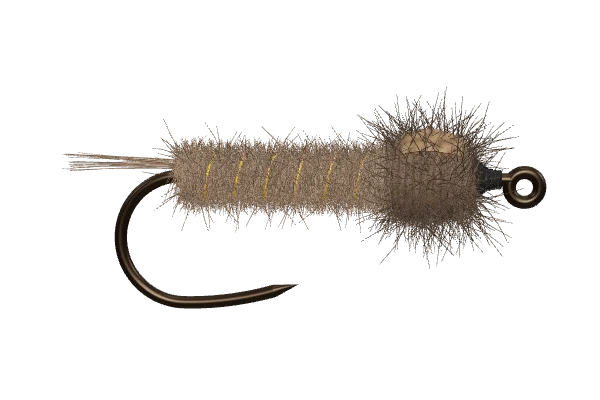
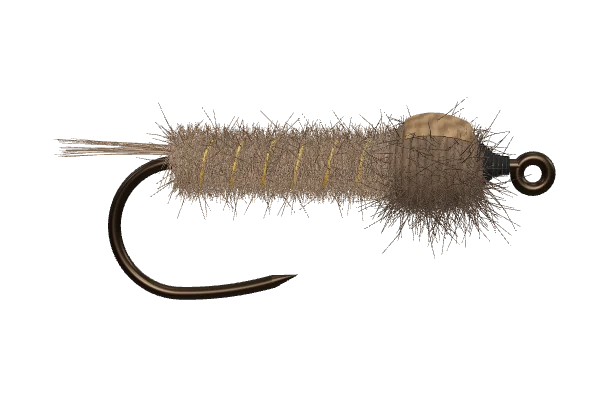
Review fixes, round 5: headless rendering falls back to SwiftShader when Vulkan has no GPU (and FLYBENCH_SOFTWARE_RENDER forces it); dubbed fur is pressed flat under wing cases too; vise mode pauses after every step; a foam back shows its excess until trimmed; leg strands keep their thickness as tai

Changed region(s): [[0.09, 0.24, 0.93, 0.78]]

diff --git a/src/tying/describe.ts b/src/tying/describe.ts
@@ -51,11 +51,15 @@ export function materialsList(recipe: Recipe): MaterialsListEntry[] {
   ];
 }
 
-export function positionText(s: number): string {
-  if (s <= 0.02) return "the start of the bend";
-  if (s >= 0.95) return "just behind the eye";
-  if (Math.abs(s - 0.5) <= 0.02) return "halfway along the shank";
-  return `${Math.round(s * 100)}% of the way along the shank`;
+/** What the fly is dressed on: a hook, a tube, or a Waddington shank (no bend on either). */
+export type Mount = "hook" | "tube" | "waddington";
+
+export function positionText(s: number, mount: Mount = "hook"): string {
+  const along = mount === "tube" ? "the tube" : "the shank";
+  if (s <= 0.02) return mount === "hook" ? "the start of the bend" : `the rear end of ${along}`;
+  if (s >= 0.95) return mount === "tube" ? "just behind the front of the tube" : "just behind the eye";
+  if (Math.abs(s - 0.5) <= 0.02) return `halfway along ${along}`;
+  return `${Math.round(s * 100)}% of the way along ${along}`;
 }
 
 const GAPE_WORDS: [number, string][] = [
@@ -73,9 +77,13 @@ export function gapeText(n: number): string {
   return word ? word[1] : `${n}× the gape`;
 }
 
-/** Where tips end, relative to the bend (x in gapes; the bend ends at bendEnd). */
-function reachText(tipX: number, bendEnd: number): string | null {
+/** Where tips end, relative to the bend (x in gapes; the bend ends at bendEnd), or to the rear of a tube or shank. */
+function reachText(tipX: number, bendEnd: number, mount: Mount): string | null {
   if (tipX > 0.1) return null;
+  if (mount !== "hook") {
+    const end = mount === "tube" ? "the tube" : "the shank";
+    return tipX > -0.15 ? `to the rear end of ${end}` : `well past the rear end of ${end}`;
+  }
   if (tipX > -0.15) return "to the start of the bend";
   if (tipX > bendEnd + 0.15) return "over the bend";
   if (tipX > bendEnd - 0.2) return "just past the end of the bend";
@@ -103,6 +111,8 @@ export interface StepContext {
 
 /** Instruction text for one step, generated from the recipe; the step's note is appended. */
 export function stepText(recipe: Recipe, step: Step, ctx: StepContext = {}): string {
+  const mount: Mount = hookModel(recipe.hook).tube?.kind ?? "hook";
+  const at = (s: number) => positionText(s, mount);
   const find = (id: string) => recipe.materials.find((m) => m.id === id);
   const mat = (id: string) => {
     const m = find(id);
@@ -114,22 +124,22 @@ export function stepText(recipe: Recipe, step: Step, ctx: StepContext = {}): str
       text = `Slide the ${mat(step.material)} round the bend and up to the eye, small hole first.`;
       break;
     case "weight":
-      text = `Wrap the ${mat(step.material)} in touching turns from ${positionText(step.from)} to ${positionText(step.to)}.`;
+      text = `Wrap the ${mat(step.material)} in touching turns from ${at(step.from)} to ${at(step.to)}.`;
       break;
     case "attach-thread":
-      text = `Attach the thread at ${positionText(step.at)} with a few turns and trim the tag end.`;
+      text = `Attach the thread at ${at(step.at)} with a few turns and trim the tag end.`;
       break;
     case "wrap-thread":
       text = step.turns
-        ? `Wrap the thread to ${positionText(step.to)} in ${step.turns} open turns.`
-        : `Wrap the thread to ${positionText(step.to)} in touching turns.`;
+        ? `Wrap the thread to ${at(step.to)} in ${step.turns} open turns.`
+        : `Wrap the thread to ${at(step.to)} in touching turns.`;
       break;
     case "tie-in": {
       const m = find(step.material);
       const archetype = m ? MATERIALS[m.kind].archetype : null;
       const what =
         archetype === "herl" && m?.strands
-          ? `${m.strands} strands of peacock herl`
+          ? `${m.strands === 1 ? "a strand" : `${m.strands} strands`} of peacock herl`
           : archetype === "hair" || archetype === "marabou" || archetype === "cdc"
             ? `a bunch of ${mat(step.material)}`
             : `the ${mat(step.material)}`;
@@ -151,7 +161,7 @@ export function stepText(recipe: Recipe, step: Step, ctx: StepContext = {}): str
         text = `Tie in ${what} under the shank as a beard, reaching ${gapeText(step.length)} back.`;
       } else if (step.length) {
         const angle = step.angle ? `, angled about ${step.angle}° up from the shank` : "";
-        const reach = ctx.tipX !== undefined && ctx.bendEnd !== undefined ? reachText(ctx.tipX, ctx.bendEnd) : null;
+        const reach = ctx.tipX !== undefined && ctx.bendEnd !== undefined ? reachText(ctx.tipX, ctx.bendEnd, mount) : null;
         const wing = archetype === "hair" || archetype === "feather";
         const pick = archetype === "feather" && step.width ? `Pick a feather about ${gapeText(step.width)} wide. ` : "";
         const flare = (step.spread ?? 0) >= 60 ? " Let it flare out round the sides of the body." : "";
@@ -169,22 +179,22 @@ export function stepText(recipe: Recipe, step: Step, ctx: StepContext = {}): str
       if (step.around) {
         text = `Wind the ${mat(step.material)} round the base of the ${mat(step.around)} in ${step.turns} turns, each one under the last.`;
       } else if (ctx.rear) {
-        text = `Palmer the ${mat(step.material)} back to ${positionText(to)} in ${step.turns} open turns.`;
+        text = `Palmer the ${mat(step.material)} back to ${at(to)} in ${step.turns} open turns.`;
       } else if (ctx.through) {
-        text = `Wind the ${mat(step.material)} forward to ${positionText(to)} in ${step.turns} turns through the ${mat(ctx.through)}. The first turn traps its tip.`;
+        text = `Wind the ${mat(step.material)} forward to ${at(to)} in ${step.turns} turns through the ${mat(ctx.through)}. The first turn traps its tip.`;
       } else {
-        text = `Wind the ${mat(step.material)} forward to ${positionText(to)} in ${step.turns} turns.`;
+        text = `Wind the ${mat(step.material)} forward to ${at(to)} in ${step.turns} turns.`;
       }
       break;
     }
     case "pull-over":
-      text = `Pull the ${mat(step.material)} forward over the top of the body and tie it down at ${positionText(step.to)}. Trim the excess.`;
+      text = `Pull the ${mat(step.material)} forward over the top of the body and tie it down at ${at(step.to)}. Trim the excess.`;
       break;
     case "spin":
-      text = `Spin clumps of ${mat(step.material)} round the shank, packing each one back against the last, up to ${positionText(step.to)}.`;
+      text = `Spin clumps of ${mat(step.material)} round the shank, packing each one back against the last, up to ${at(step.to)}.`;
       break;
     case "dub":
-      text = `Twist a thin noodle of ${mat(step.material)} onto the thread and wrap it forward to ${positionText(step.to)}.`;
+      text = `Twist a thin noodle of ${mat(step.material)} onto the thread and wrap it forward to ${at(step.to)}.`;
       break;
     case "tie-off":
       text = `Tie off the ${mat(step.material)} with a few thread turns and trim the excess.`;

diff --git a/src/tying/simulate.ts b/src/tying/simulate.ts
@@ -282,6 +282,10 @@ interface MaterialLook {
 
 const deg = (d: number) => (d * Math.PI) / 180;
 
+// Assumption: the excess of a pulled-over strip sticks out about 0.8 gape past the
+// tie-down until it is trimmed.
+const UNTRIMMED = 0.8;
+
 /** Colours whose feathers and hackles are barred or mottled. */
 const BARRED: Record<string, number> = { grizzly: 1, teal: 1, partridge: 0.8, mallard: 0.6, snipe: 0.5, turkey: 0.6 };
 
@@ -450,6 +454,8 @@ export function simulate(recipe: Recipe): Build {
 
   /** Fluffy material (herl, dubbing, hackle) wound between a and b so far, which a cover squashes. */
   const fluffy: { x0: number; x1: number; height: number }[] = [];
+  /** Every pass of dubbing, which a wing case or back later lies over. */
+  const dubbed: WrapsPiece[] = [];
   const fluffUnder = (a: number, b: number) =>
     Math.max(0, ...fluffy.filter((f) => Math.min(f.x0, f.x1) < b && Math.max(f.x0, f.x1) > a).map((f) => f.height));
 
@@ -549,6 +555,7 @@ export function simulate(recipe: Recipe): Build {
         // Each pass thins out at its ends, so passes built on each other round off into a ball.
         profile = profile.withLayer(from, to, l.layerThickness(coverage), Math.min(0.2, Math.abs(to - from) * 0.25), true);
         pieces.push(piece);
+        dubbed.push(piece);
         // The dubbing is on the thread, so the bobbin follows it.
         thread = { kind: "follow", piece: piece.id };
         threadX = to;
@@ -738,20 +745,30 @@ export function simulate(recipe: Recipe): Build {
         const cover: CoverPiece = {
           type: "cover", id: nextId++, material: step.material, look: l.look, color: l.color, window: [0, 0.6],
           x0: from, x1: to, base: profile, thickness, lift: fluffUnder(from, to), halfAngle: deg(l.look === "foam" ? 80 : l.look === "feather" ? 50 : 65),
-          dents: [], stub: 0, barring: l.barring,
+          // A strip trimmed later sticks out over the eye until then.
+          dents: [], stub: recipe.steps.slice(index + 1).some((s) => s.op === "trim" && s.material === step.material) ? UNTRIMMED : 0,
+          barring: l.barring,
         };
         pieces.push(cover);
         covers.set(step.material, cover);
         profile = profile.withLayer(from, to, thickness * 0.8);
-        // Fibres on top of what it covers are pressed flat: from this step on, those wraps are
-        // replaced by copies without them, so earlier moments still show the fibres.
-        for (const [id, w] of wound) {
-          if (!w.fibreLength || w.path !== "travel" || Math.min(w.x0, w.x1) >= to || Math.max(w.x0, w.x1) <= from) continue;
+        // Fibres on top of what it covers, wound or dubbed, are pressed flat: from this step on,
+        // those wraps are replaced by copies without them, so earlier moments still show them.
+        const press = (w: WrapsPiece): WrapsPiece | null => {
+          if (!w.fibreLength || w.path !== "travel" || Math.min(w.x0, w.x1) >= to || Math.max(w.x0, w.x1) <= from) return null;
           w.until = time;
           const pressed: WrapsPiece = { ...w, id: nextId++, seed: w.seed ?? w.id, covered: [from, to, cover.halfAngle], window: [0, 0.0001], until: undefined };
           pieces.push(pressed);
-          wound.set(id, pressed);
+          return pressed;
+        };
+        for (const [id, w] of wound) {
+          const pressed = press(w);
+          if (pressed) wound.set(id, pressed);
         }
+        dubbed.forEach((w, k) => {
+          const pressed = press(w);
+          if (pressed) dubbed[k] = pressed;
+        });
         freeEnds.delete(step.material);
         ends = restingEnds();
         const wraps = inPlace(threadX!, 5, [0.6, 1]);

diff --git a/src/ui/PatternPage.tsx b/src/ui/PatternPage.tsx
@@ -136,6 +136,9 @@ function PatternView({ recipe: original, linkedStep }: { recipe: Recipe; linkedS
     setStopAt(null);
     player.play();
   };
+  // Vise mode pauses after every step: play the next one, or this one if it is unfinished.
+  const playNext = () => playStep(player.time >= step.start + step.duration - 0.05 ? current + 1 : current);
+  const play = () => (vise ? playNext() : playAll());
 
   useEffect(() => {
     const onKey = (e: KeyboardEvent) => {
@@ -148,7 +151,7 @@ function PatternView({ recipe: original, linkedStep }: { recipe: Recipe; linkedS
       } else if (e.key === " ") {
         e.preventDefault();
         if (player.playing) player.pause();
-        else playAll();
+        else play();
       } else if (e.key === "ArrowRight") {
         e.preventDefault();
         playStep(current + 1);
@@ -179,7 +182,7 @@ function PatternView({ recipe: original, linkedStep }: { recipe: Recipe; linkedS
         <div
           className="now"
           aria-live="polite"
-          onClick={vise ? () => playStep(player.time >= step.start + step.duration - 0.05 ? current + 1 : current) : undefined}
+          onClick={vise ? playNext : undefined}
         >
           <p className="now-index">
             Step {current + 1} of {build.steps.length}
@@ -192,7 +195,7 @@ function PatternView({ recipe: original, linkedStep }: { recipe: Recipe; linkedS
           <button onClick={() => playStep(current - 1)} disabled={current === 0} aria-label="Previous step">
             <TransportIcon name="previous" />
           </button>
-          <button className="play" onClick={() => (player.playing ? player.pause() : playAll())} aria-label={player.playing ? "Pause" : "Play"}>
+          <button className="play" onClick={() => (player.playing ? player.pause() : play())} aria-label={player.playing ? "Pause" : "Play"}>
             <TransportIcon name={player.playing ? "pause" : "play"} />
           </button>
           <button onClick={() => playStep(current)} aria-label="Replay this step">

diff --git a/src/tying/simulate.test.ts b/src/tying/simulate.test.ts
@@ -36,16 +36,31 @@ describe("simulate", () => {
       if (!loaded.ok) throw new Error(file);
       const steps = simulate(loaded.recipe).steps;
       const coverStep = new Map<string, number>();
+      const firstStub = new Map<string, number>();
       steps.forEach((s, i) => {
         for (const p of s.pieces) {
-          if (p.type === "cover" && !coverStep.has(p.material)) coverStep.set(p.material, i);
+          if (p.type === "cover" && !coverStep.has(p.material)) {
+            coverStep.set(p.material, i);
+            firstStub.set(p.material, p.stub);
+          }
           // Fibres pressed flat by a wing case, and rib dents in it, never show before they happen.
           if (p.type === "wraps" && p.covered) expect(i, file).toBeGreaterThanOrEqual(Math.min(...coverStep.values()));
           if (p.type === "cover" && p.dents.length > 0) expect(i, file).toBeGreaterThan(coverStep.get(p.material)!);
-          if (p.type === "cover" && p.stub > 0) expect(i, file).toBeGreaterThan(coverStep.get(p.material)!);
+          // Trimming changes what sticks out past the tie-down, never before it happens.
+          if (p.type === "cover" && p.stub !== firstStub.get(p.material)) expect(i, file).toBeGreaterThan(coverStep.get(p.material)!);
         }
       });
     }
+  });
+
+  it("presses dubbed fur flat under a wing case, as well as wound fibres", () => {
+    const loaded = loadRecipe(readFileSync(new URL("../../patterns/gold-ribbed-hares-ear-nymph.kdl", import.meta.url), "utf8"));
+    if (!loaded.ok) throw new Error("hare's ear");
+    const steps = simulate(loaded.recipe).steps;
+    const pull = loaded.recipe.steps.findIndex((s) => s.op === "pull-over");
+    const pressed = steps[pull]!.pieces.filter((p) => p.type === "wraps" && p.look === "dubbing" && p.covered);
+    // Both passes of the thorax.
+    expect(pressed.length).toBeGreaterThanOrEqual(2);
   });
 
   it("never leaves a material out of sight at the start of a step, in every pattern", () => {

diff --git a/scripts/lib/renderer.ts b/scripts/lib/renderer.ts
@@ -43,10 +43,15 @@ export class Renderer {
     await server.listen();
     const base = server.resolvedUrls!.local[0]!;
     // Vulkan reaches the real GPU from headless Chromium (about 50× faster than software
-    // rendering); without a GPU, ANGLE falls back to SwiftShader.
-    const browser = await chromium.launch({
-      args: ["--use-angle=vulkan", "--enable-features=Vulkan", "--enable-unsafe-swiftshader"],
-    });
+    // rendering). Without a usable Vulkan driver WebGL fails outright rather than falling
+    // back, so check, and use the SwiftShader software renderer instead.
+    // FLYBENCH_SOFTWARE_RENDER=1 asks for software rendering directly.
+    let browser = await chromium.launch({ args: ["--use-angle=vulkan", "--enable-features=Vulkan", "--enable-unsafe-swiftshader"] });
+    if (process.env.FLYBENCH_SOFTWARE_RENDER || !(await hasWebGL(browser))) {
+      await browser.close();
+      console.warn("Rendering in software (SwiftShader), which is much slower.");
+      browser = await chromium.launch({ args: ["--use-angle=swiftshader", "--enable-unsafe-swiftshader"] });
+    }
     return new Renderer(server, browser, base);
   }
 
@@ -101,5 +106,15 @@ export class Renderer {
   async stop(): Promise<void> {
     await this.browser.close();
     await this.server.close();
+  }
+}
+
+/** Whether pages in this browser can create a WebGL 2 context. */
+async function hasWebGL(browser: Browser): Promise<boolean> {
+  const page = await browser.newPage();
+  try {
+    return await page.evaluate(() => document.createElement("canvas").getContext("webgl2") !== null);
+  } finally {
+    await page.close();
   }
 }

diff --git a/scripts/prerender.ts b/scripts/prerender.ts
@@ -15,7 +15,7 @@ import sharp from "sharp";
 import { pageHtml, sitePages, SITE_NAME } from "../src/catalog/pages";
 import { formatError } from "../src/recipe/errors";
 import { loadRecipe } from "../src/recipe/load";
-import { withoutReferences } from "../src/recipe/publish";
+import { IMAGE_URL, withoutReferences } from "../src/recipe/publish";
 import type { Recipe } from "../src/recipe/schema";
 
 const DIST = "dist";
@@ -29,7 +29,11 @@ async function loadPatterns(): Promise<Recipe[]> {
   return Promise.all(
     files.map(async (f) => {
       // The text the site ships, without its reference photos: what the app will load.
-      const result = loadRecipe(withoutReferences(await readFile(`patterns/${f}`, "utf8")));
+      const published = withoutReferences(await readFile(`patterns/${f}`, "utf8"));
+      // A reference block hidden some other way (a /* */ or // comment) would still ship.
+      const leak = published.match(IMAGE_URL);
+      if (leak) throw new Error(`${f}: an image address would be published (${leak[0]}); remove it or put it under references`);
+      const result = loadRecipe(published);
       if (!result.ok) throw new Error(`${f}:\n${result.errors.map(formatError).join("\n")}`);
       return result.recipe;
     }),

diff --git a/src/studio/Studio.tsx b/src/studio/Studio.tsx
@@ -21,6 +21,9 @@ export function Studio() {
   const [text, setText] = useState("");
   /** A new pattern that is not on disk yet. */
   const [unsavedFile, setUnsavedFile] = useState(false);
+  // The draft open now, for a save that finishes after another draft was opened.
+  const openFile = useRef<string | null>(null);
+  openFile.current = file;
   const [status, setStatus] = useState("Loading patterns…");
   const [creating, setCreating] = useState(false);
 
@@ -89,7 +92,8 @@ export function Studio() {
     try {
       await savePattern(file, text, unsavedFile);
       setSaved((m) => new Map(m).set(file, text));
-      setUnsavedFile(false);
+      // Only if this draft is still open: a new one opened meanwhile is not saved yet.
+      if (openFile.current === file) setUnsavedFile(false);
       const problems = checkDraft(text, file, others).errors.length;
       setStatus(problems ? `Saved ${file}, with ${problems} ${problems === 1 ? "problem" : "problems"} still to fix` : `Saved ${file}`);
     } catch (e) {

diff --git a/src/recipe/publish.test.ts b/src/recipe/publish.test.ts
@@ -1,7 +1,7 @@
 import { readFileSync, readdirSync } from "node:fs";
 import { describe, expect, it } from "vitest";
 import { loadRecipe } from "./load";
-import { withoutReferences } from "./publish";
+import { IMAGE_URL, withoutReferences } from "./publish";
 
 const patternsDir = new URL("../../patterns/", import.meta.url);
 const patternFiles = readdirSync(patternsDir).filter((f) => f.endsWith(".kdl"));
@@ -12,6 +12,7 @@ describe("withoutReferences", () => {
     const stripped = withoutReferences(text);
     expect(stripped.split("\n")).toHaveLength(text.split("\n").length);
     expect(stripped).not.toMatch(/^references\b|refcheck|reference only/m);
+    expect(stripped).not.toMatch(IMAGE_URL);
     const before = loadRecipe(text);
     const after = loadRecipe(stripped);
     expect(after.ok).toBe(true);

diff --git a/src/render/pieces.ts b/src/render/pieces.ts
@@ -521,7 +521,8 @@ function bundleView(piece: BundlePiece, surfaces: Surfaces, space: ShankSpace): 
       u: rand(), base, dir, length,
       // Clipped hair shows its thick cut ends.
       // Fibres deep in a bunch are shaded by the rest, so a mass of white hair still has depth.
-      radius: (radialHair && piece.cut ? spec.radius * 1.6 : spec.radius) * (piece.fibreWidth ?? 1),
+      // Rubber and silicone strands keep their real thickness, as they do tied across.
+      radius: piece.look === "legs" ? piece.bundleRadius : (radialHair && piece.cut ? spec.radius * 1.6 : spec.radius) * (piece.fibreWidth ?? 1),
       shade: (0.85 + 0.3 * rand()) * (piece.cut ? 1 : 1 - 0.32 * Math.pow(rand(), 0.6)),
       bend, bendDir: bend > 0 ? perpendicular(dir, toward, rand) : undefined,
     });

diff --git a/src/recipe/publish.ts b/src/recipe/publish.ts
@@ -7,6 +7,9 @@ import { getLocation, parse } from "@bgotink/kdl";
  * characters are removed but its line breaks kept, so line numbers still match. Text that
  * doesn't parse is returned unchanged, for the loader to report.
  */
+/** Image addresses: none may be left in a published recipe, however a block was hidden. */
+export const IMAGE_URL = /https?:\/\/\S+?\.(?:jpe?g|png|webp|gif)\b/i;
+
 export function withoutReferences(text: string): string {
   let doc;
   try {

diff --git a/README.md b/README.md
@@ -45,7 +45,8 @@ Viewer controls: drag to orbit, scroll or pinch to zoom, right-drag to pan.
 Space plays and pauses, ← and → step back and forward. Click a step to play just that step.
 
 Rendering uses the GPU through Vulkan in headless Chromium when there is one, and
-falls back to software rendering (much slower) when there isn't.
+falls back to software rendering (SwiftShader, much slower) when there isn't;
+`FLYBENCH_SOFTWARE_RENDER=1` asks for software rendering directly.
 
 ## Adding a pattern
 
